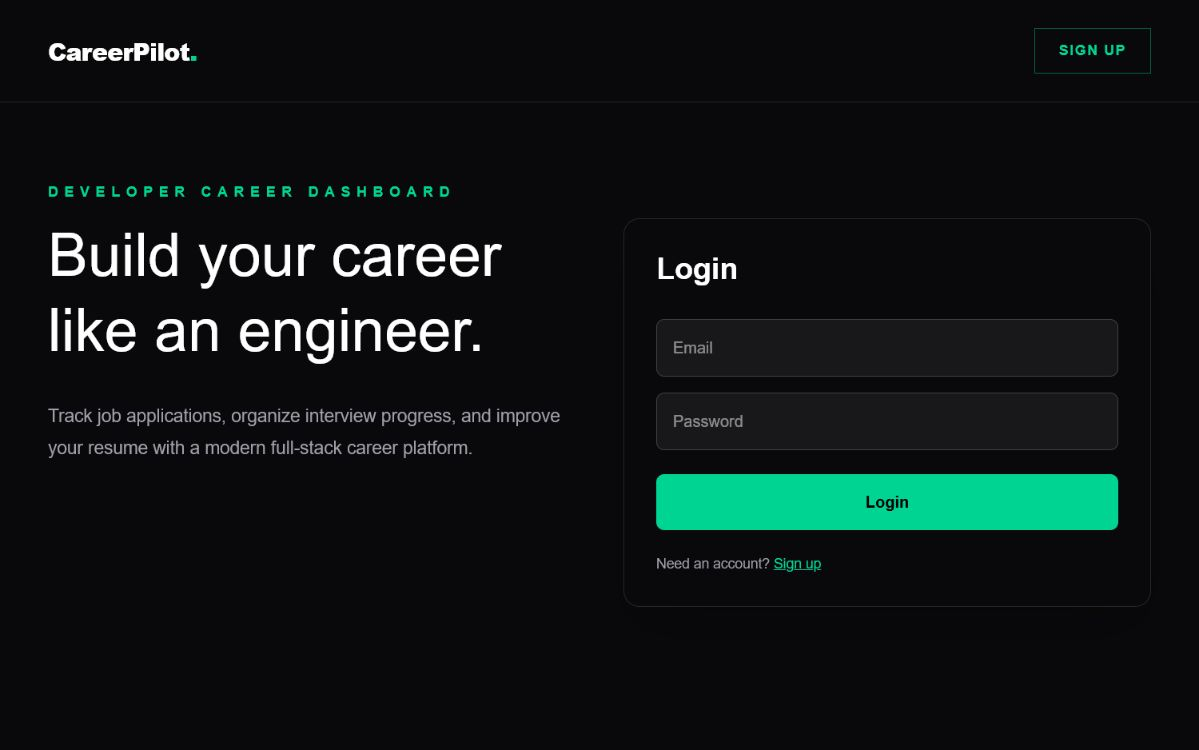
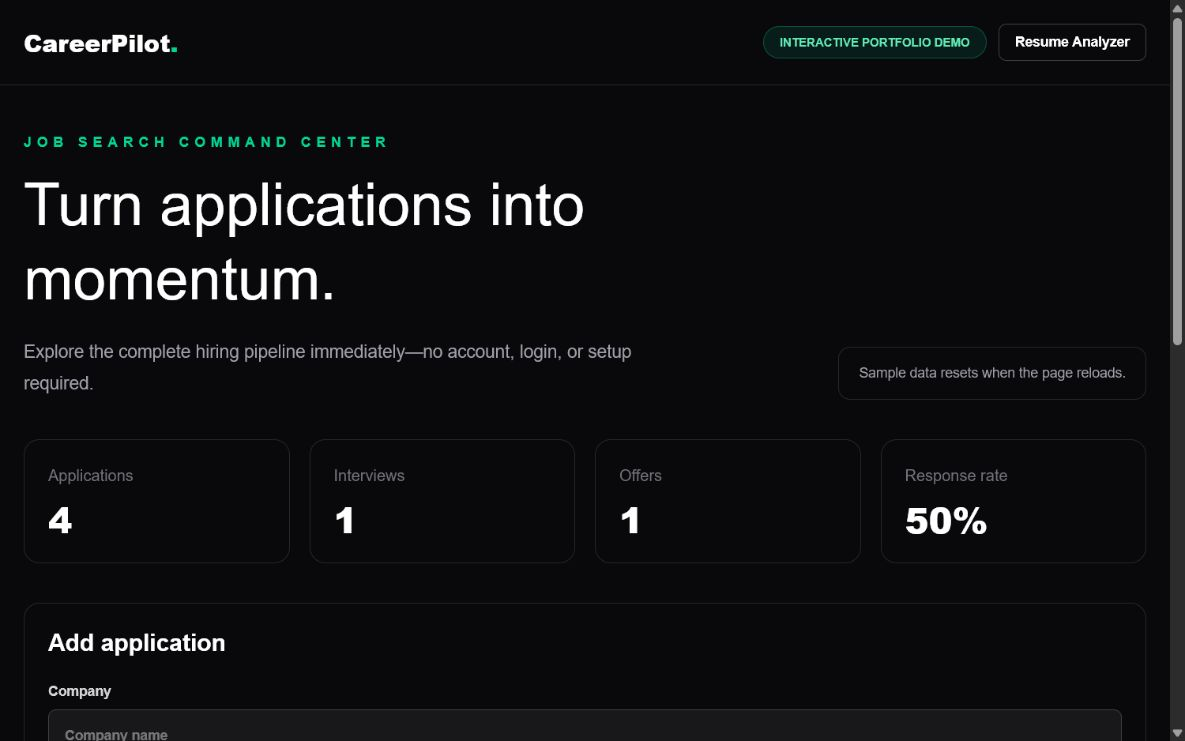
Refresh demo project cards

diff --git a/app/page.tsx b/app/page.tsx
@@ -24,8 +24,8 @@ const projects = [
   {
     title: "Task Tracker",
     description:
-      "Full-stack task management application built with Next.js and Supabase authentication. Users can create accounts, sign up, and log in securely.",
-    tech: ["Next.js", "TypeScript", "Supabase"],
+      "Interactive task management demo where visitors can create, prioritize, filter, complete, and remove project tasks instantly.",
+    tech: ["Next.js", "TypeScript", "Tailwind CSS", "React"],
     github: "https://github.com/jdbartlett929/task-tracker",
     live: "https://task-tracker-beta-indol.vercel.app",
     image: "/project-images/task-tracker.png",
@@ -42,8 +42,8 @@ const projects = [
   {
     title: "CareerPilot",
     description:
-      "Full-stack career management platform built with Next.js, TypeScript, Tailwind CSS, and Supabase. Users can manage job applications, analyze resumes, track interviews, and organize their job search through a modern dashboard.",
-    tech: ["Next.js", "TypeScript", "Tailwind CSS", "Supabase"],
+      "Interactive career dashboard for managing job applications, tracking interviews and offers, and analyzing resume keywords.",
+    tech: ["Next.js", "TypeScript", "Tailwind CSS", "React"],
     github: "https://github.com/jdbartlett929/careerpilot",
     live: "https://careerpilot-tan.vercel.app",
     image: "/project-images/careerpilot.png",
